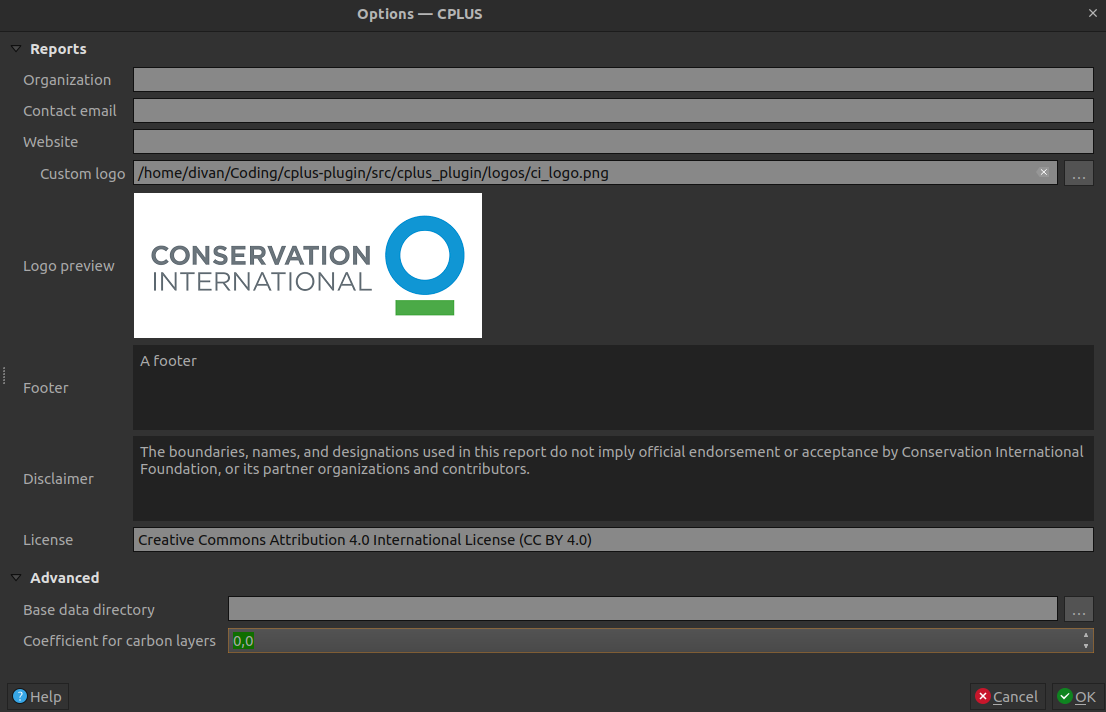
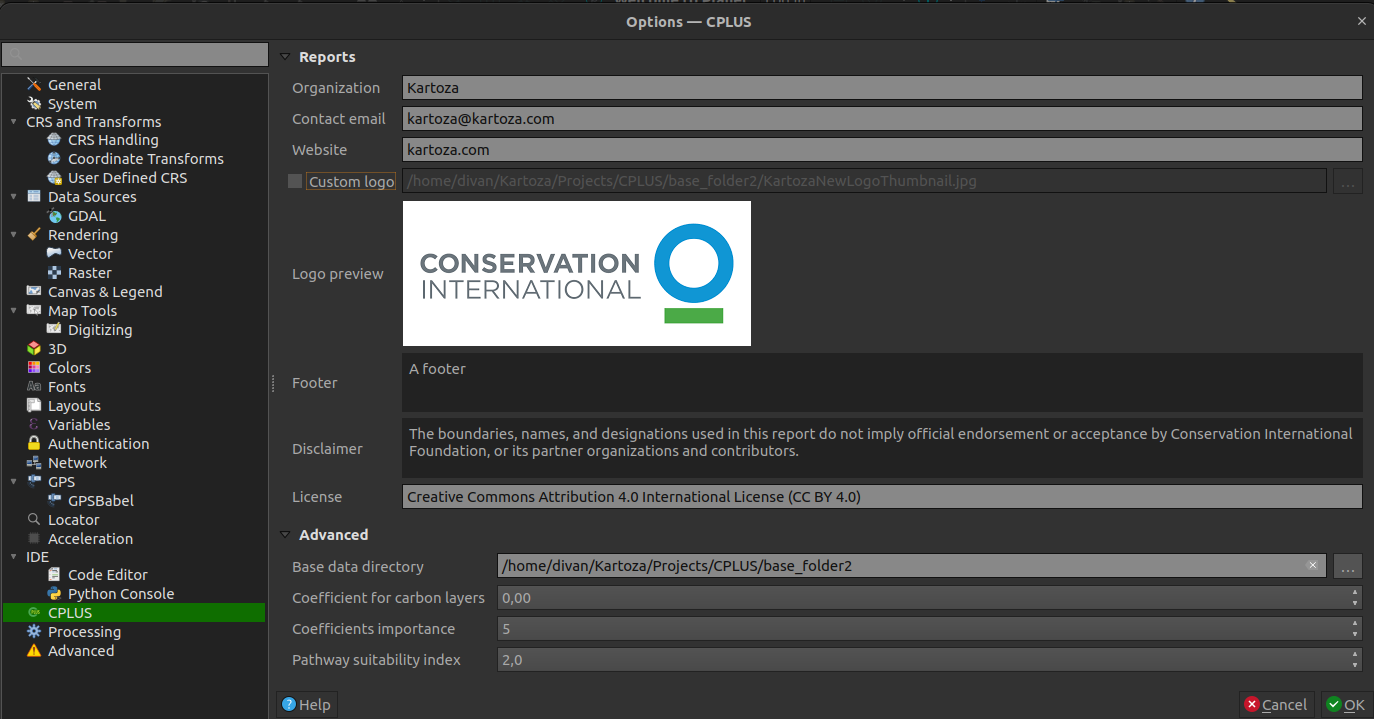
Settings indices/coefficients added to the manual and guide

diff --git a/docs/user/manual/index.md b/docs/user/manual/index.md
@@ -124,16 +124,16 @@ These options will be available once the analysis has finished. The options will
 *Figure 9: Settings available to the user*
 
 - **Reports**: Information to be added to the report
-  - *Organization*: (optional) Organization or institute name
-  - *Contact email*: (optional) Contact email of the user
-  - *Website*: (optional) Link to website of your company or institute
-  - *Custom logo*: (optional) If enabled, the user needs to provide a custom logo. Most formats should suffice (png, jpeg, etc.)
-  - *Logo preview*: Visual previre of the default CI logo, or the custom logo a user selected
-  - *Footer*: (optional) Will be added to the report
-  - *Disclaimer*: Change as desired, otherwise use the default disclaimer
-  - *License*: Change as desired, otherwise use the default license description
+    - *Organization*: (optional) Organization or institute name
+    - *Contact email*: (optional) Contact email of the user
+    - *Website*: (optional) Link to website of your company or institute
+    - *Custom logo*: (optional) If enabled, the user needs to provide a custom logo. Most formats should suffice (png, jpeg, etc.)
+    - *Logo preview*: Visual previre of the default CI logo, or the custom logo a user selected
+    - *Footer*: (optional) Will be added to the report
+    - *Disclaimer*: Change as desired, otherwise use the default disclaimer
+    - *License*: Change as desired, otherwise use the default license description
 - **Advanced**:
-  - *Base data directory*: Directory to read data from, and to which results will be written
-  - *Coefficient for carbon layers*: Applied to carbon layers during processing
-- **OK**: Apply and save settings
-- **Cancel**: Any changes to the settings will not be saved
+    - *Base data directory*: Directory to read data from, and to which results will be written
+    - *Coefficient for carbon layers*: Applied to carbon layers during processing
+    - **Coefficient importance**: Level of importance for used coefficients when weighting the implementation models
+    - **Pathway suitability index**: Index multiplied to the pathways. Lower values means the pathway is less important, higher means its more important

diff --git a/docs/user/guide/index.md b/docs/user/guide/index.md
@@ -524,6 +524,8 @@ A short description of each available setting a user can change. Most are option
 
 - **Base data directory** (required): Data accessed and download by the plugin will be stored here
 - **Coefficient for carbon layers**: Value applied during processing to the carbon-based layers. Default is 0
+- **Coefficient importance**: Level of importance for used coefficients when weighting the implementation models
+- **Pathway suitability index**: Index multiplied to the pathways. Lower values means the pathway is less important, higher means its more important
 
 **Figure 37** shows an example of updating and applying CPLUS settings.
 
